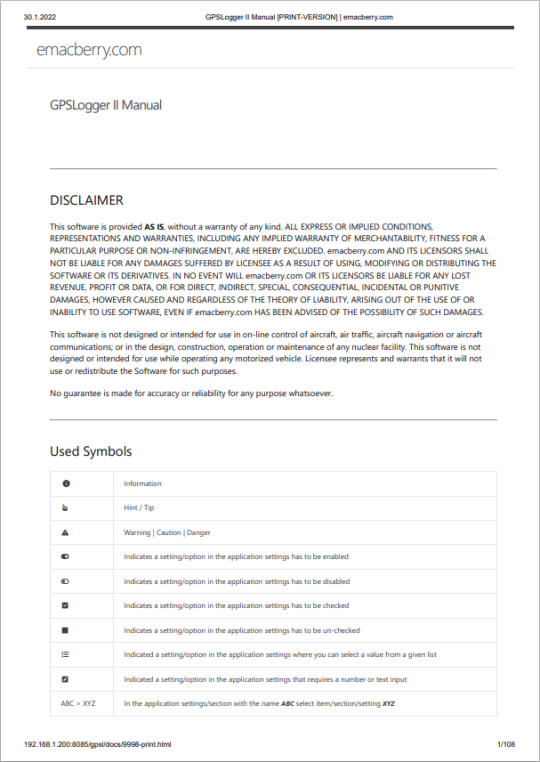
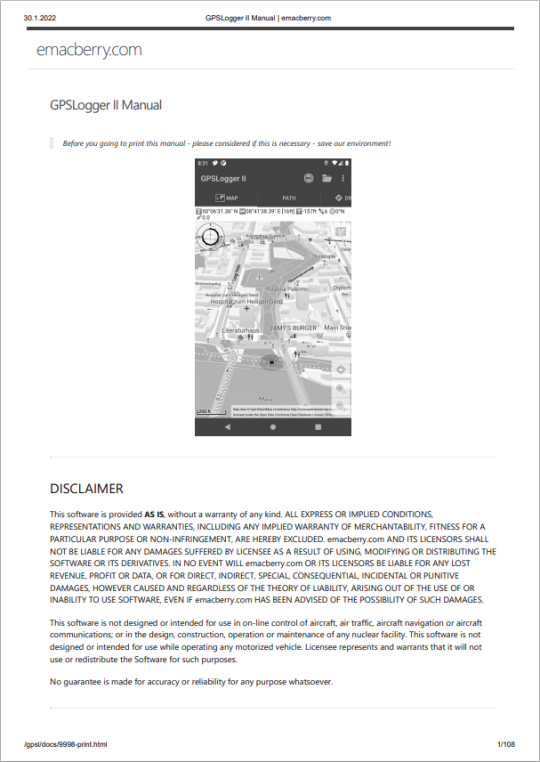
- center a GPSLogger image on manual start

diff --git a/_posts/2022-01-30-initialmanual.md b/_posts/2022-01-30-initialmanual.md
@@ -15,9 +15,7 @@ With the beginning of 2022 (that has not been a _New Year's resolution_) I have 
 GPSLogger Manual, and today I have completed the initial (aka draft) version.
 
 Let's [jump directly <i class="fa-solid fa-arrow-up-right-from-square"></i> into the manual](/gpsl/manual.html)... or
-continue reading about the details.
-
-<br class="shot-end"/><!--more-->
+continue reading about the details.<br class="shot-end"/><!--more-->
 
 ### <i class="fa-solid fa-circle-check"></i> What is currently done
 All the main application use cases and features are documented in different sections. Each section will start with a

diff --git a/gpsl2man.md b/gpsl2man.md
@@ -10,6 +10,9 @@ permalink: gpsl/manual.html
 > areas - if you come across such a section please let us know (or simply fork the project on GitHub, make the
 > adjustments and create a pull request - TIA!).
 
+{:style="text-align:center;"}
+![shot1](/assets/img/gpsl/Screenshot_1642149089_50.png){:style="width:33%; display:block; margin-left:auto; margin-right:auto"}
+
 ---
 
 ## DISCLAIMER

diff --git a/gpsl2man-print.md b/gpsl2man-print.md
@@ -6,6 +6,8 @@ permalink: gpsl/docs/9998-print.html
 ---
 > Before you going to print this manual - please considered if this is necessary - save our environment!  
 
+![shot1](/assets/img/gpsl/Screenshot_1642149089_50.png){:style="width:35%; display:block; margin-left:auto; margin-right:auto"}
+
 ---
 
 # DISCLAIMER
